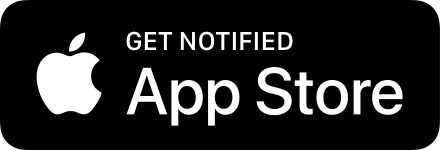
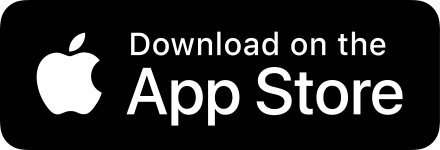
updated appstore button

Changed region(s): [[0.2659, 0.2133, 0.7386, 0.3733], [0.7682, 0.2133, 0.8864, 0.3733]]

diff --git a/_layouts/default.html b/_layouts/default.html
@@ -56,9 +56,9 @@
                                 <a class="playStoreLink" href="{{site.playstore_link}}"><img class="playStore" src="assets/playstore.png"></a>
                             {% endif %}
                         </div>
-                        <!-- <div class="downloadButtonsContainer">
+                        <div class="downloadButtonsContainer">
                             <a class="appStoreLink" href="https://forms.gle/zqVaJJMcNxEPQMa29">Can't wait? Join the iPhone test group and help improve the app now!</a>
-                        </div> -->
+                        </div>
                         
                     </div>
                     {% include features.html %}
